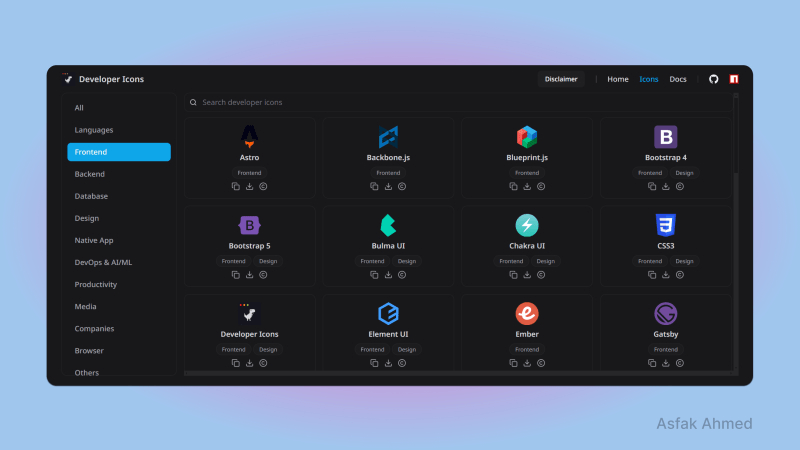
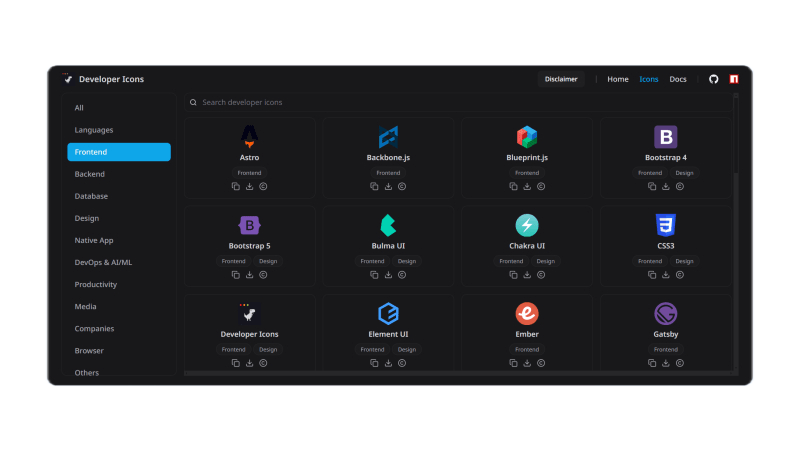
fix: card image size error and add time in detail

diff --git a/src/components/commons/card.tsx b/src/components/commons/card.tsx
@@ -57,11 +57,15 @@ const Card = ({
           src={imageUrl}
           alt={title}
           fill
-          className="object-cover transition-transform duration-500 group-hover:scale-110"
+          className="absolute inset-0 h-full w-full object-scale-down object-center transition-transform duration-500 group-hover:scale-110"
           sizes="(max-width: 768px) 100vw, (max-width: 1200px) 50vw, 33vw"
+          priority={false}
+          quality={85}
         />
-        <div className="absolute inset-0 bg-gradient-to-t from-black/40 to-transparent" />
-        <div className="absolute bottom-4 left-4 flex gap-2">
+
+        <div className="absolute inset-0 bg-gradient-to-br from-orange-500/20 via-transparent to-blue-500/20 transition-opacity duration-300 group-hover:opacity-50" />
+
+        <div className="absolute bottom-4 left-4 flex flex-wrap gap-2">
           {categories.slice(0, 2).map((category, index) => (
             <span
               key={index}

diff --git a/src/components/pages/blog-detail-page/blog-detail-page--blog-detail-section.tsx b/src/components/pages/blog-detail-page/blog-detail-page--blog-detail-section.tsx
@@ -73,7 +73,7 @@ const BlogDetailPageBlogDetailSection = () => {
               key={category}
               className="mr-1 inline-flex rounded-full bg-blue-100 px-3 py-1 text-sm capitalize text-blue-800"
             >
-              {category}
+              {category.split('-').join(' ')}
             </div>
           ))}
           <div className="mt-4 text-sm text-gray-500"></div>
@@ -82,6 +82,8 @@ const BlogDetailPageBlogDetailSection = () => {
               year: 'numeric',
               month: 'long',
               day: 'numeric',
+              hour: 'numeric',
+              minute: 'numeric',
             })}
           </div>
         </div>

diff --git a/src/components/pages/project-detail-page/project-detail-page-detail-section.tsx b/src/components/pages/project-detail-page/project-detail-page-detail-section.tsx
@@ -73,7 +73,7 @@ const ProjectDetailPageDetailSection = () => {
               key={category}
               className="mr-1 inline-flex rounded-full bg-blue-100 px-3 py-1 text-sm capitalize text-blue-800"
             >
-              {category}
+              {category.split('-').join(' ')}
             </div>
           ))}
           <div className="mt-4 text-sm text-gray-500">
@@ -81,6 +81,8 @@ const ProjectDetailPageDetailSection = () => {
               year: 'numeric',
               month: 'long',
               day: 'numeric',
+              hour: 'numeric',
+              minute: 'numeric',
             })}
           </div>
         </div>
